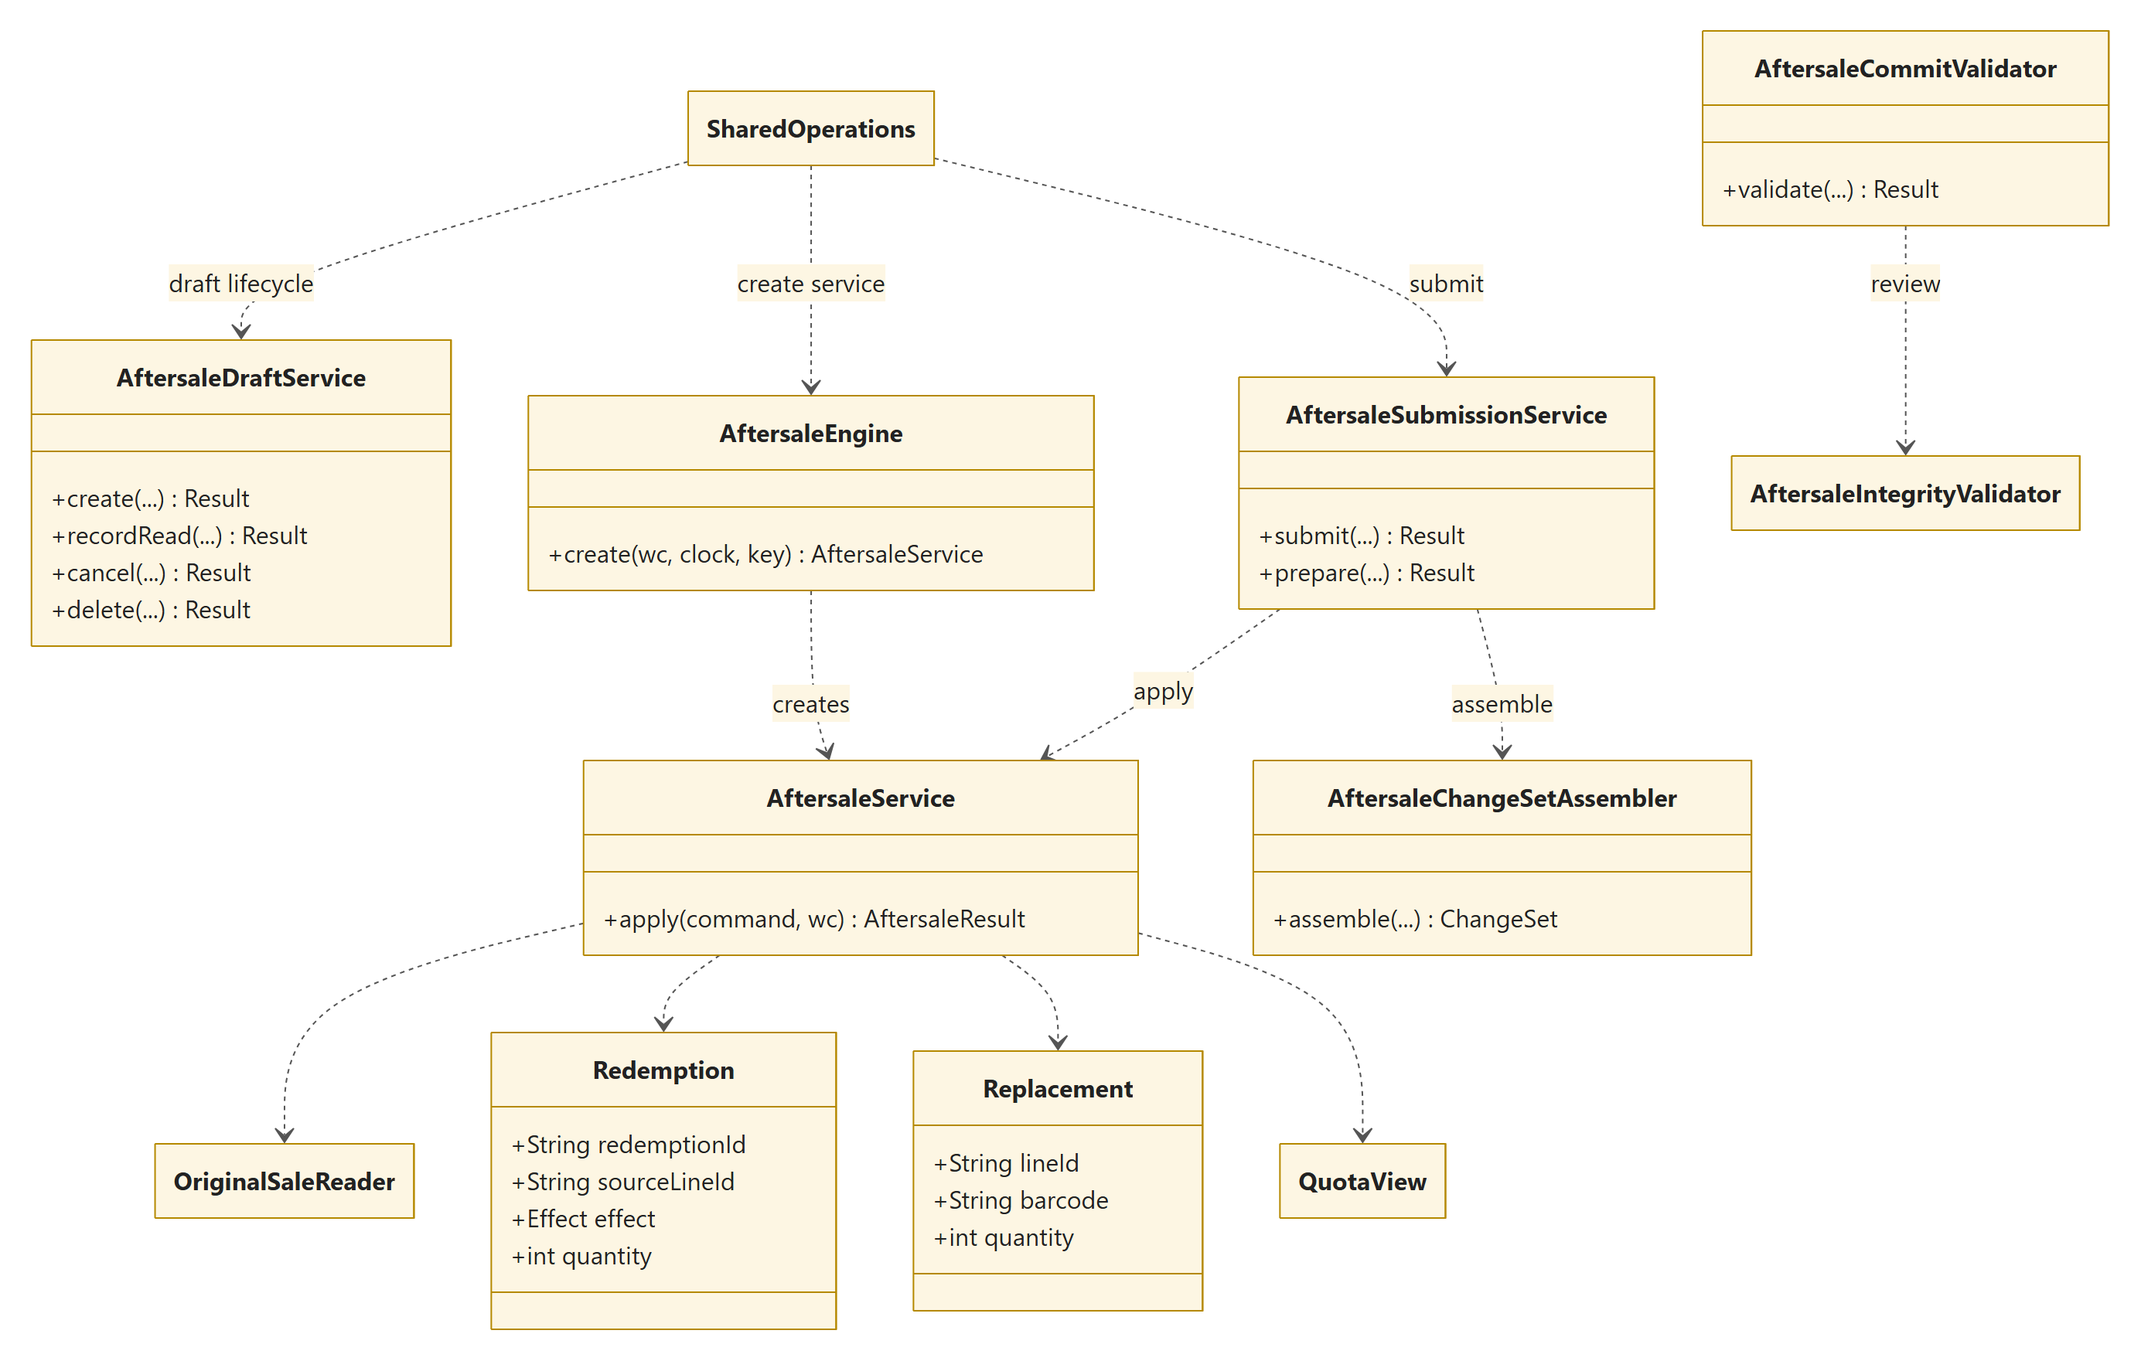
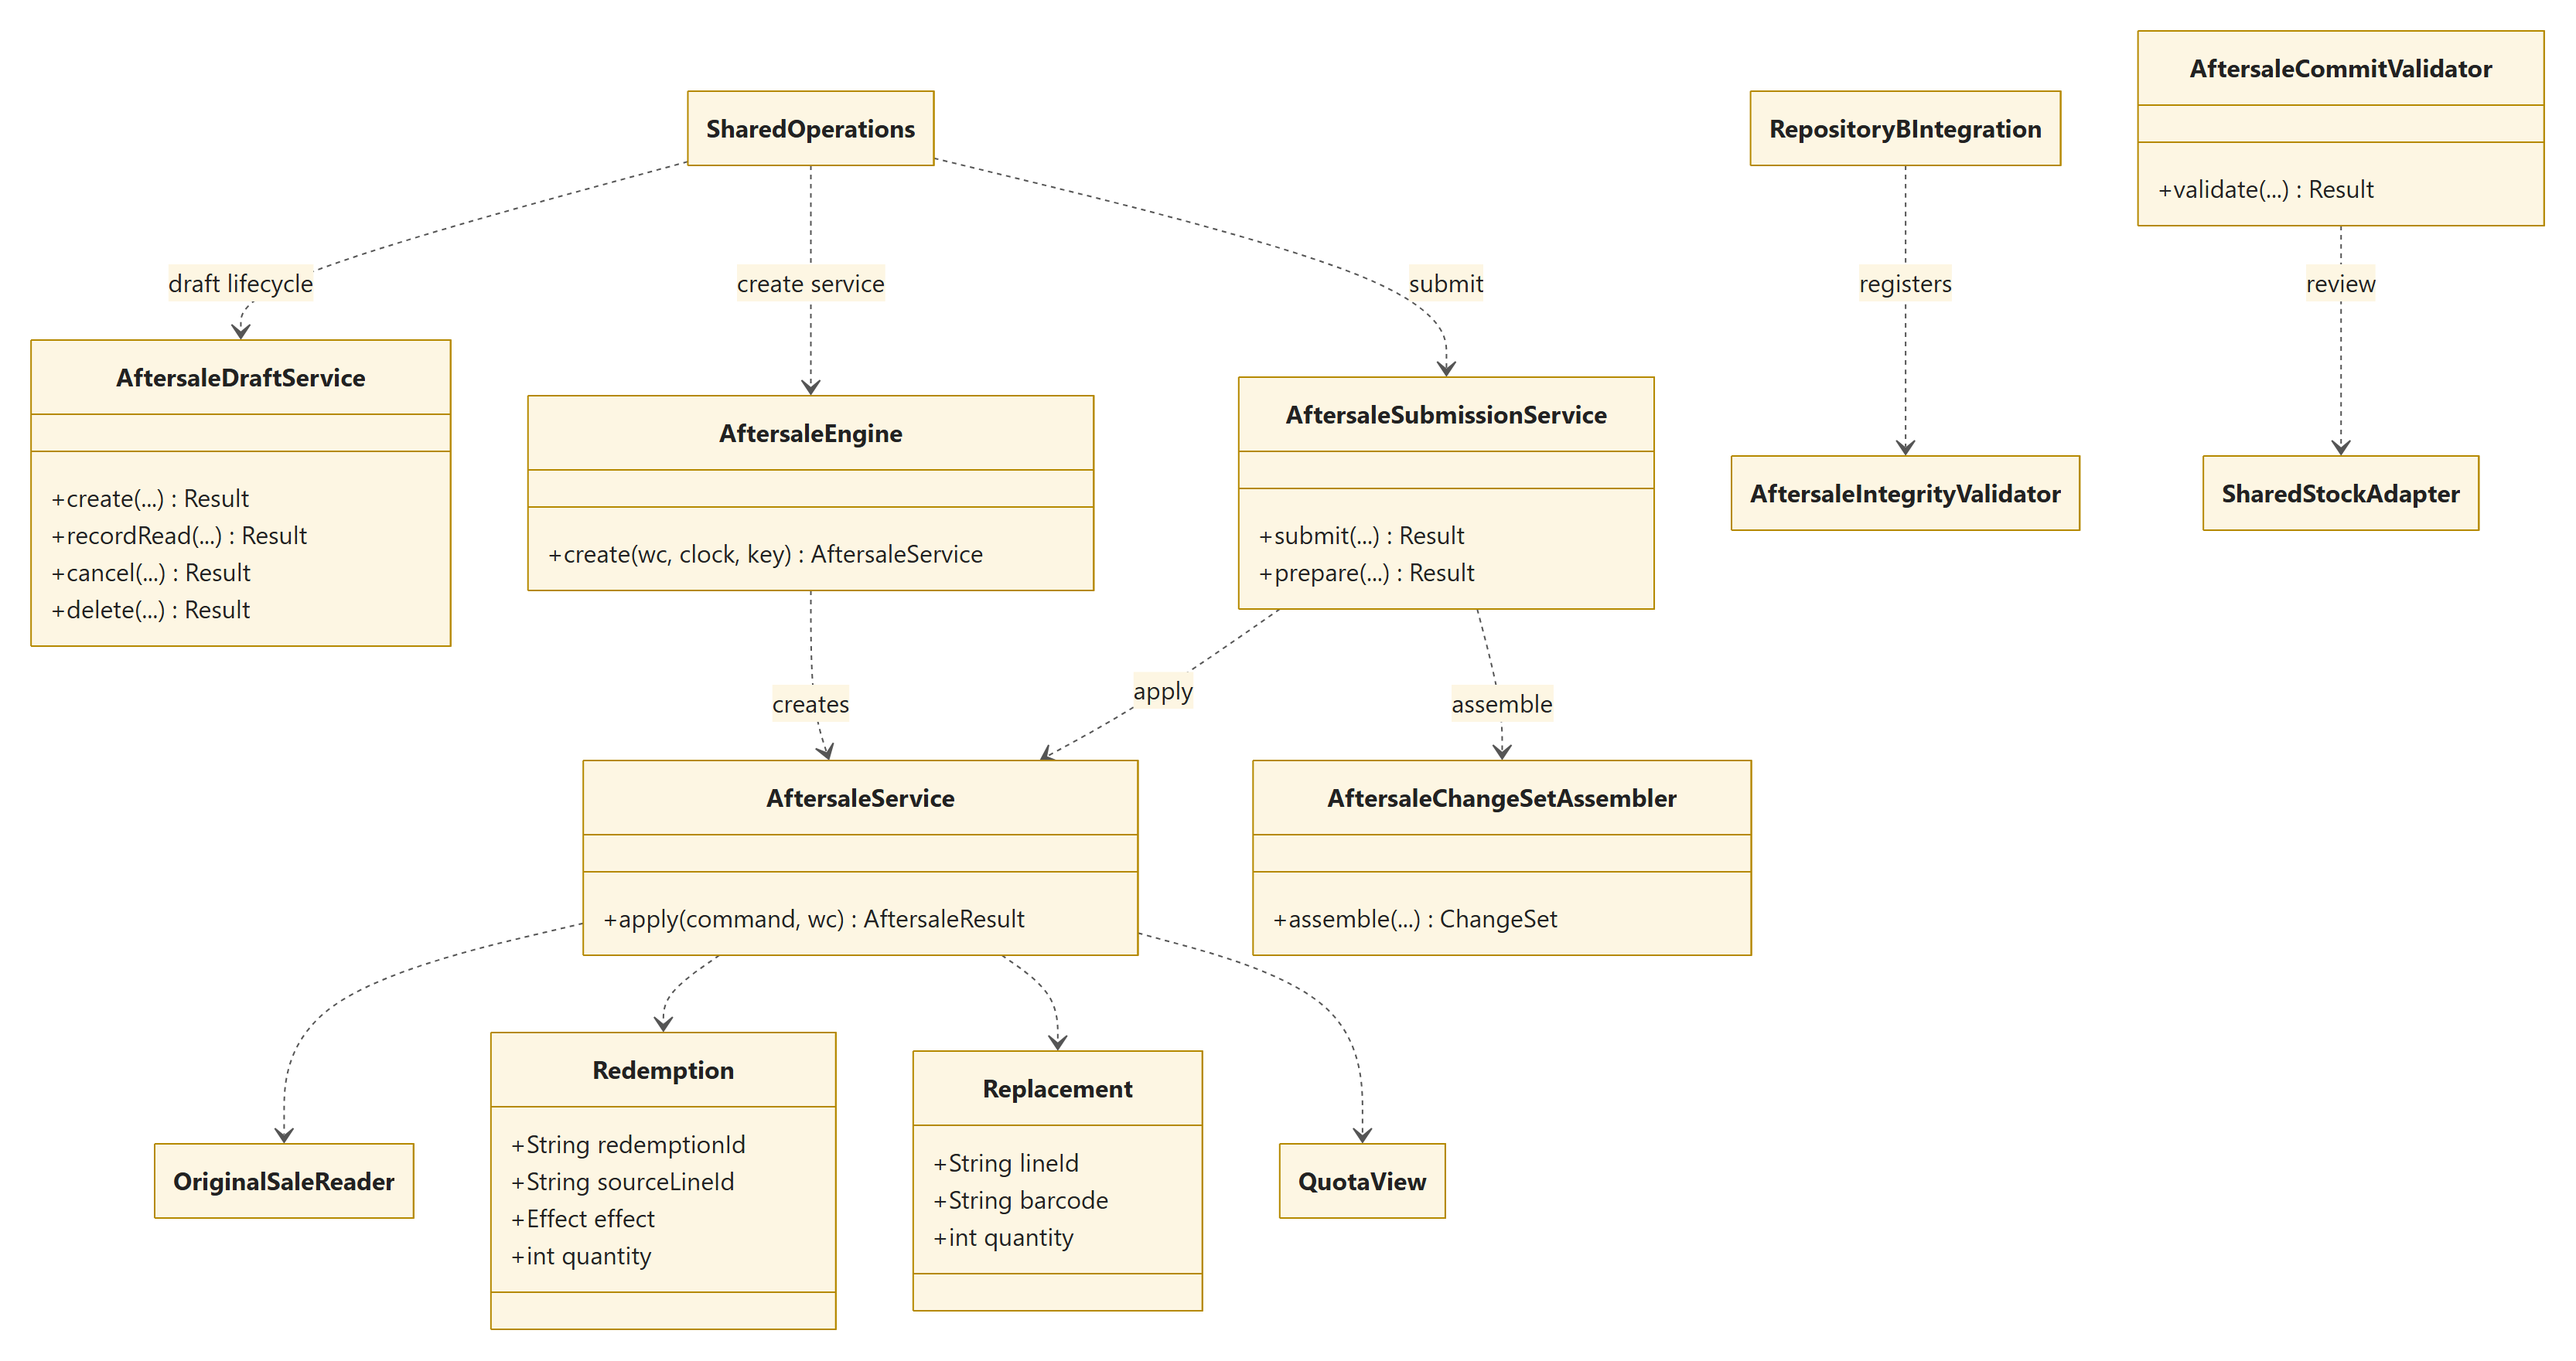
docs: correct diagram relations, allow JDK 17+ verification, refresh inventory

diff --git a/README.md b/README.md
@@ -18,6 +18,7 @@ For Chinese terminal input, configure UTF-8 input/output as shown in the languag
 2. One command to start with the bundled demo data:
    `run.cmd`
    It seeds `data\snapshot.json` from `demo\preset_snapshot_20261022.json` when no snapshot exists, builds the executable jar if needed, and launches the CUI. Log in with `manager01`, `clerk01` or `admin01`; password `demo1234`.
+   `run.cmd` is Windows-only and requires `JAVA_HOME`; it does not fall back to the `java` on `PATH`. There is no `run.sh`: on macOS/Linux run `./mvnw -B --no-transfer-progress clean package` and start the jar with `java -jar target/supermarket-management-0.1.0-SNAPSHOT-jar-with-dependencies.jar`.
 3. To build without launching: `.\mvnw.cmd -B --no-transfer-progress clean package`.
    The template's `mvn clean javafx:run` belongs to Project 2 (GUI); this P1 is a CUI. `mvn clean compile exec:java` also works here because the pom declares the exec plugin and main class.
 
